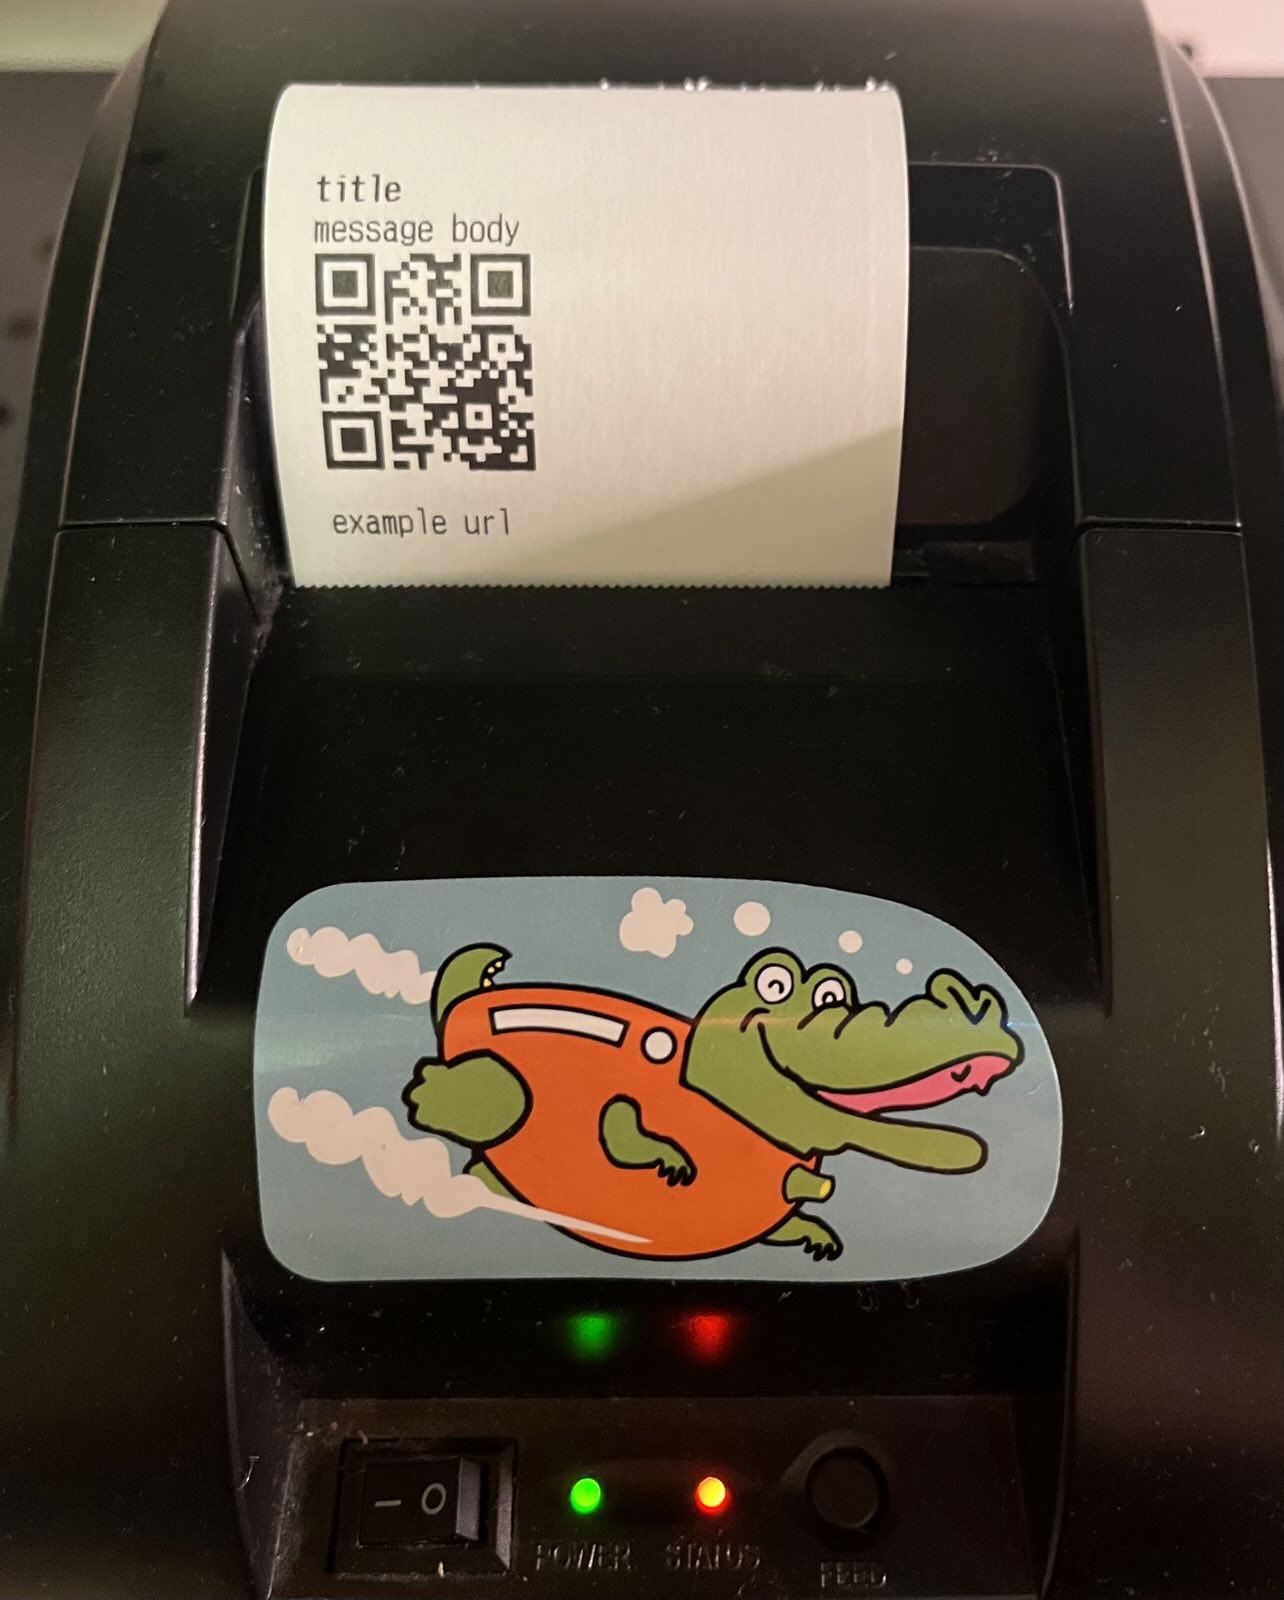
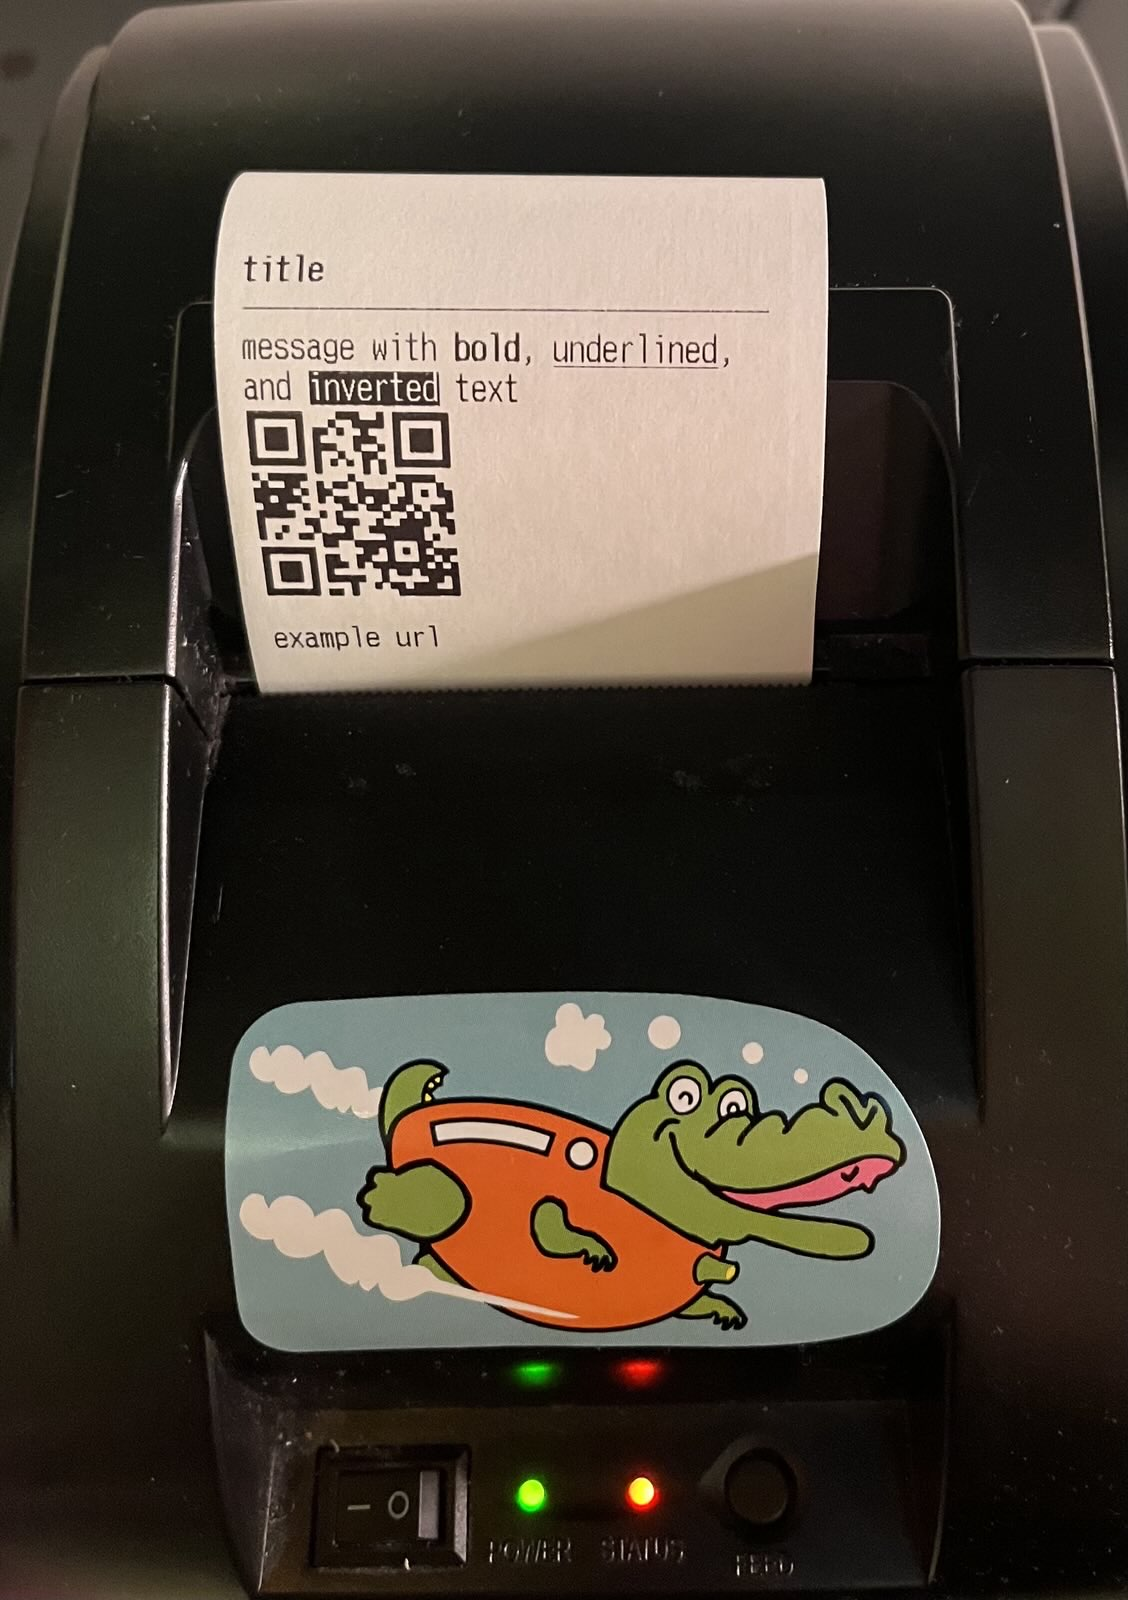
html text formatting
this just covers the five tags mentioned at https://pushover.net/api#html

diff --git a/client.js b/client.js
@@ -3,7 +3,7 @@ require('dotenv').config({quiet: true});
 const fs = require('fs');
 const spawn = require('child_process').spawn;
 const {JSDOM} = require("jsdom");
-const ReceiptPrinterEncoder = require('@point-of-sale/receipt-printer-encoder')
+const ReceiptPrinterEncoder = require('@point-of-sale/receipt-printer-encoder');
 
 const api_url = 'https://api.pushover.net/1';
 const websocket_url = 'wss://client.pushover.net/push';
@@ -232,22 +232,25 @@ function formatMessage(config, message) {
         .codepage('auto')
         .bold(true)
         .line(title)
+        .rule()
         .bold(false);
 
     let body = message.message;
     if (message.html == 1) {
         const {document} = new JSDOM(message.message).window;
-        body = document.body.textContent ?? body;
+        text += '\n' + document.body.textContent ?? body;
+        formatHTML(encoder, document);
+        encoder.newline();
+    } else {
+        // remove leading and trailing whitespace
+        body = body.trim().split('\n').map(line => line.trim()).join('\n');
+
+        // collapse whitespace
+        body = body.replaceAll('\t', ' ').replaceAll(/ {2,}/g, ' ');
+
+        text += '\n' + body;
+        encoder.line(body);
     }
-
-    // remove leading and trailing whitespace
-    body = body.trim().split('\n').map(line => line.trim()).join('\n');
-
-    // collapse whitespace
-    body = body.replaceAll('\t', ' ').replaceAll(/ {2,}/g, ' ');
-
-    text += '\n' + body;
-    encoder.line(body);
 
     if (message.url) {
         encoder.qrcode(message.url)
@@ -261,6 +264,48 @@ function formatMessage(config, message) {
     }
 
     return {text, encoder};
+}
+
+function formatHTML(encoder, element) {
+    let operator;
+    switch (element.nodeName) {
+        case 'B':
+            operator = 'bold';
+            break;
+        case 'I': // italics aren't supported by most printers
+            operator = 'italic';
+            break;
+        case 'U':
+            operator = 'underline';
+            break;
+        case 'FONT': // instead of attempting to apply a font color, we just switch to white-on-black
+            if (element.color && element.color != '#000000') {
+                operator = 'invert';
+            }  
+            break;
+        case 'A':
+            encoder.qrcode(element.href);
+            break;
+        case '#text':
+            const lines = element.textContent.split('\n');
+            lines.forEach((line, index) => {
+                // encoder will flush on an empty line
+                if (index == lines.length - 1) {
+                    if (line) encoder.text(line);
+                } else if (line) {
+                    encoder.line(line);
+                } else {
+                    encoder.newline();
+                }
+            })
+            break;
+    }
+
+    if (operator) encoder[operator](true);
+    Array.from(element.childNodes).forEach(child =>
+        formatHTML(encoder, child)
+    );
+    if (operator) encoder[operator](false);
 }
 
 async function main() {

diff --git a/example.js b/example.js
@@ -4,11 +4,12 @@ const parameters = {
     token: process.env['TOKEN'],
     user: process.env['USER_KEY'],
     title: 'title',
-    message: 'message body',
+    message: 'message with <b>bold</b>, <u>underlined</u>, and <font color="#ffffff">inverted</font> text',
     url: 'https://example.com',
     url_title: 'example url',
     device: process.env['DEVICE_NAME'],
     priority: 0,
+    html: 1,
 };
 
 fetch('https://api.pushover.net/1/messages.json', {
